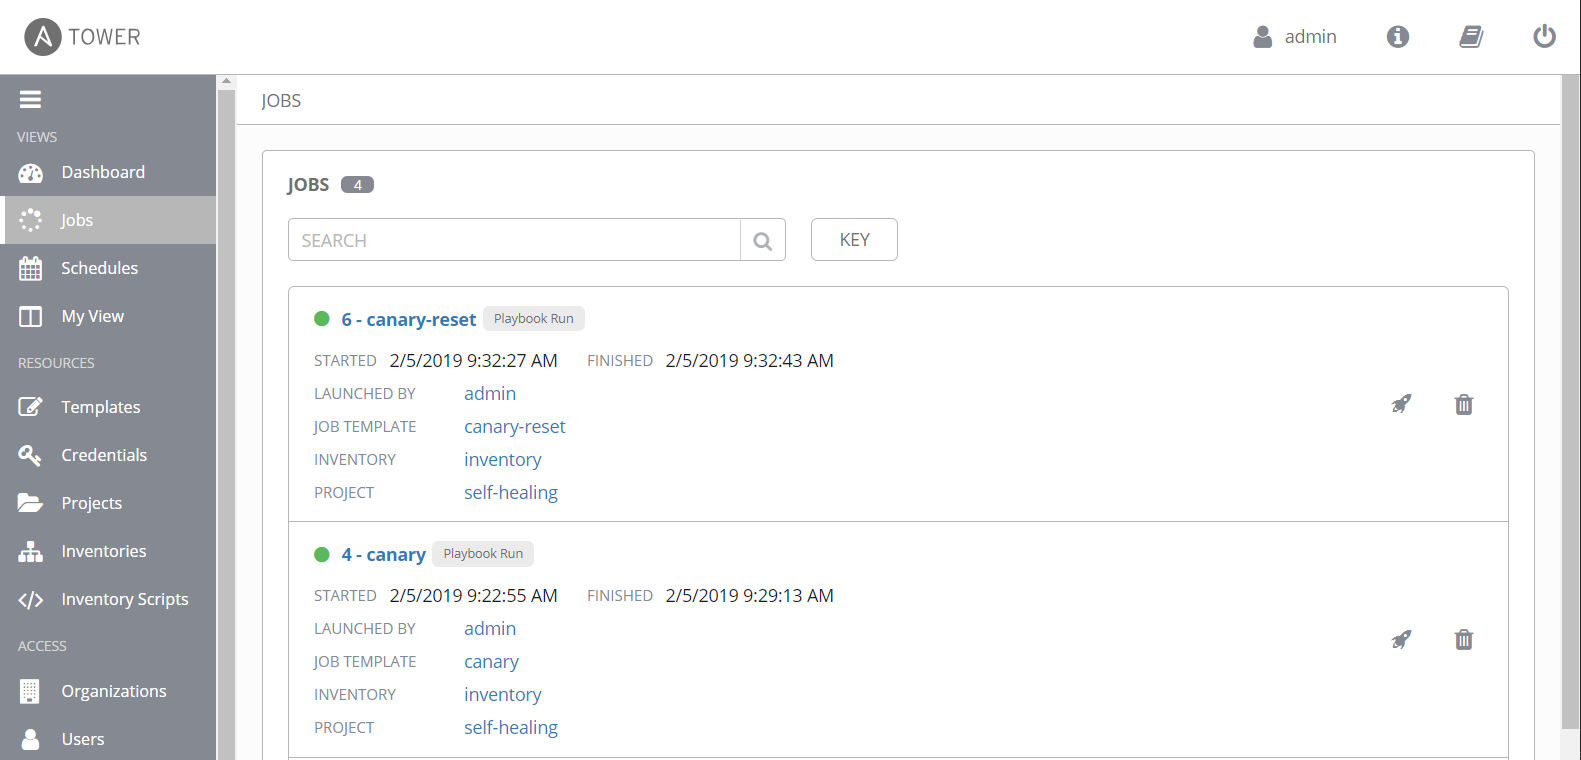
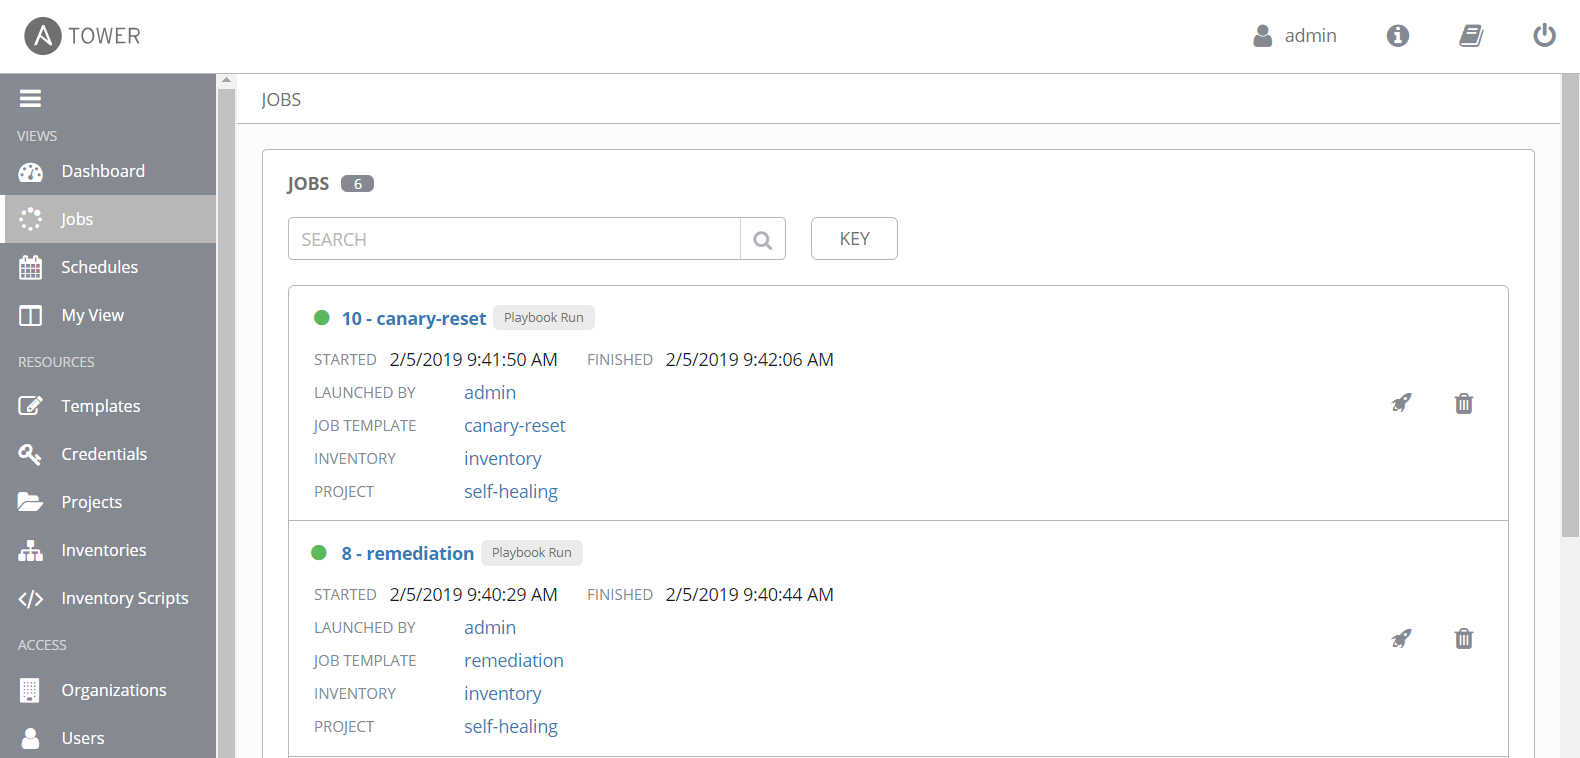
Changed image of canary release.

diff --git a/usecases/unbreakable-delivery-pipeline/README.md b/usecases/unbreakable-delivery-pipeline/README.md
@@ -229,7 +229,7 @@ In this step, you wil launch the above Ansible job that redirects the entire tra
 
 1. Now, you need to wait until a problem appears in Dynatrace.
 
-1. When Dynatrace opens a problem notification, it automatically invokes the remediation action as defined in the canary playbook. In fact, the remediation action refers to the **canary-reset** playbook in Ansible Tower. Consequently, you see the executed playbook when navigating to Ansible Tower and Jobs. Moreover, the failure rate of the front-end service must decline since new traffic is routed to the previous version.
+1. When Dynatrace opens a problem notification, it automatically invokes the remediation action as defined in the canary playbook. In fact, the remediation action refers to the **remediation** playbook, which then triggers the **canary-reset** playbook. Consequently, you see the executed playbooks when navigating to *Ansible Tower* and *Jobs*. Moreover, the failure rate of the front-end service must decrease since new traffic is routed to the previous version of front-end.
     ![canary_reset](./assets/canary_reset.png)
 
 ## Step 5. Cleanup use case<a id="step-five"></a>
